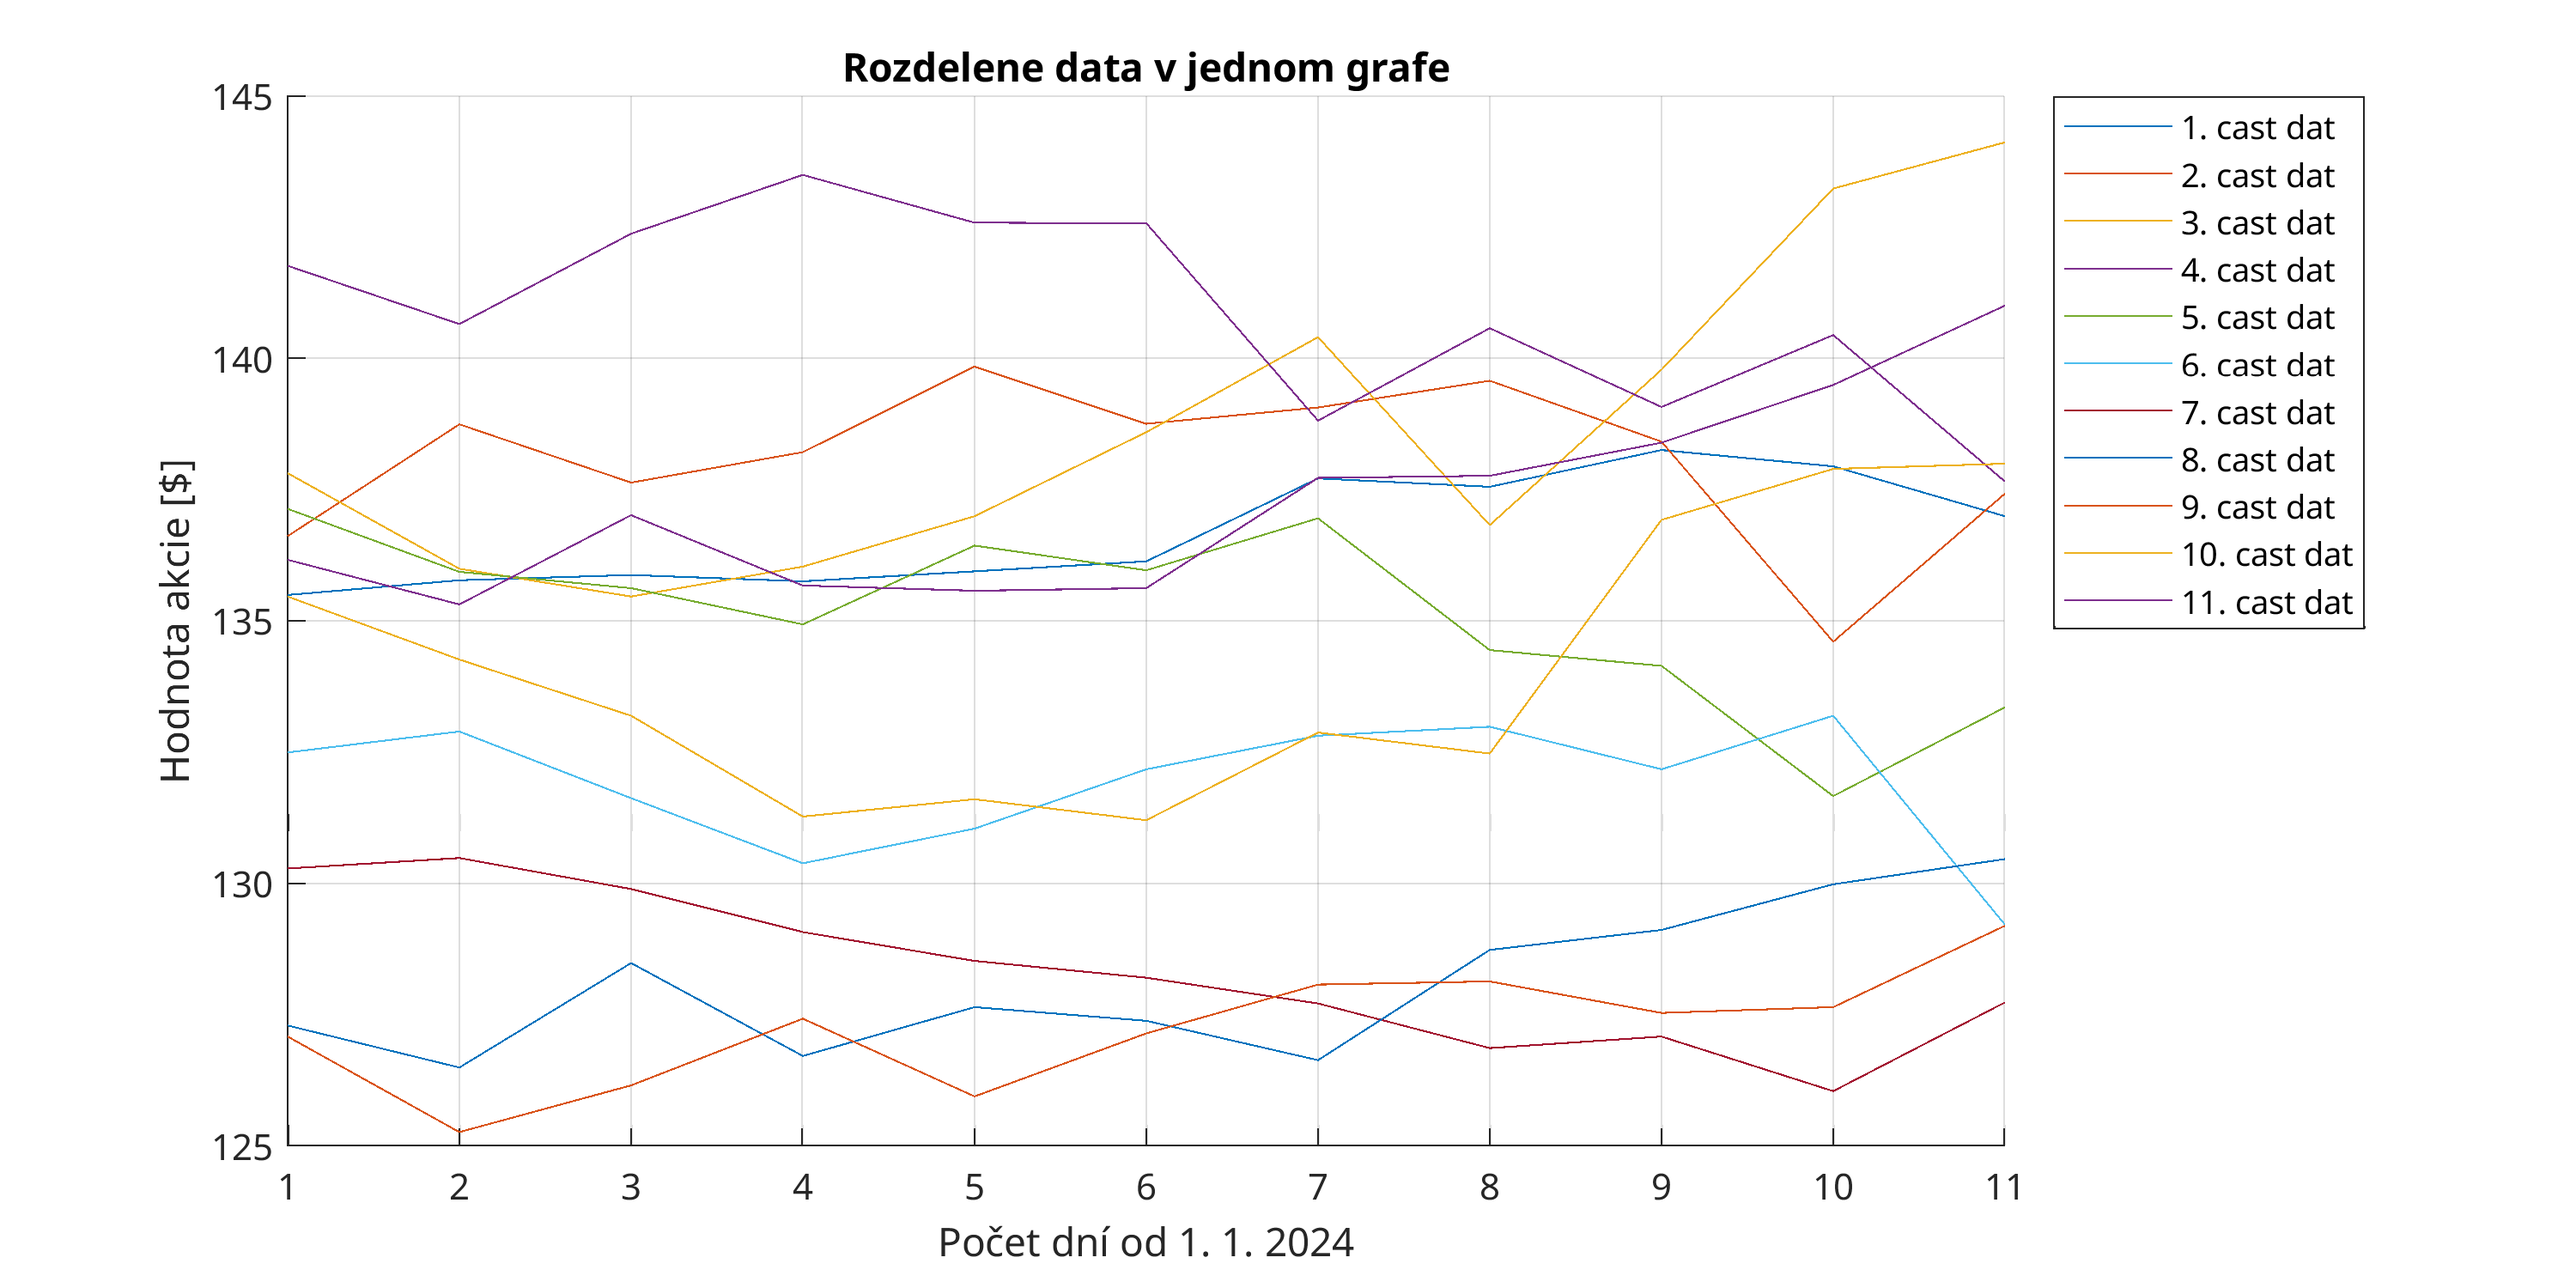
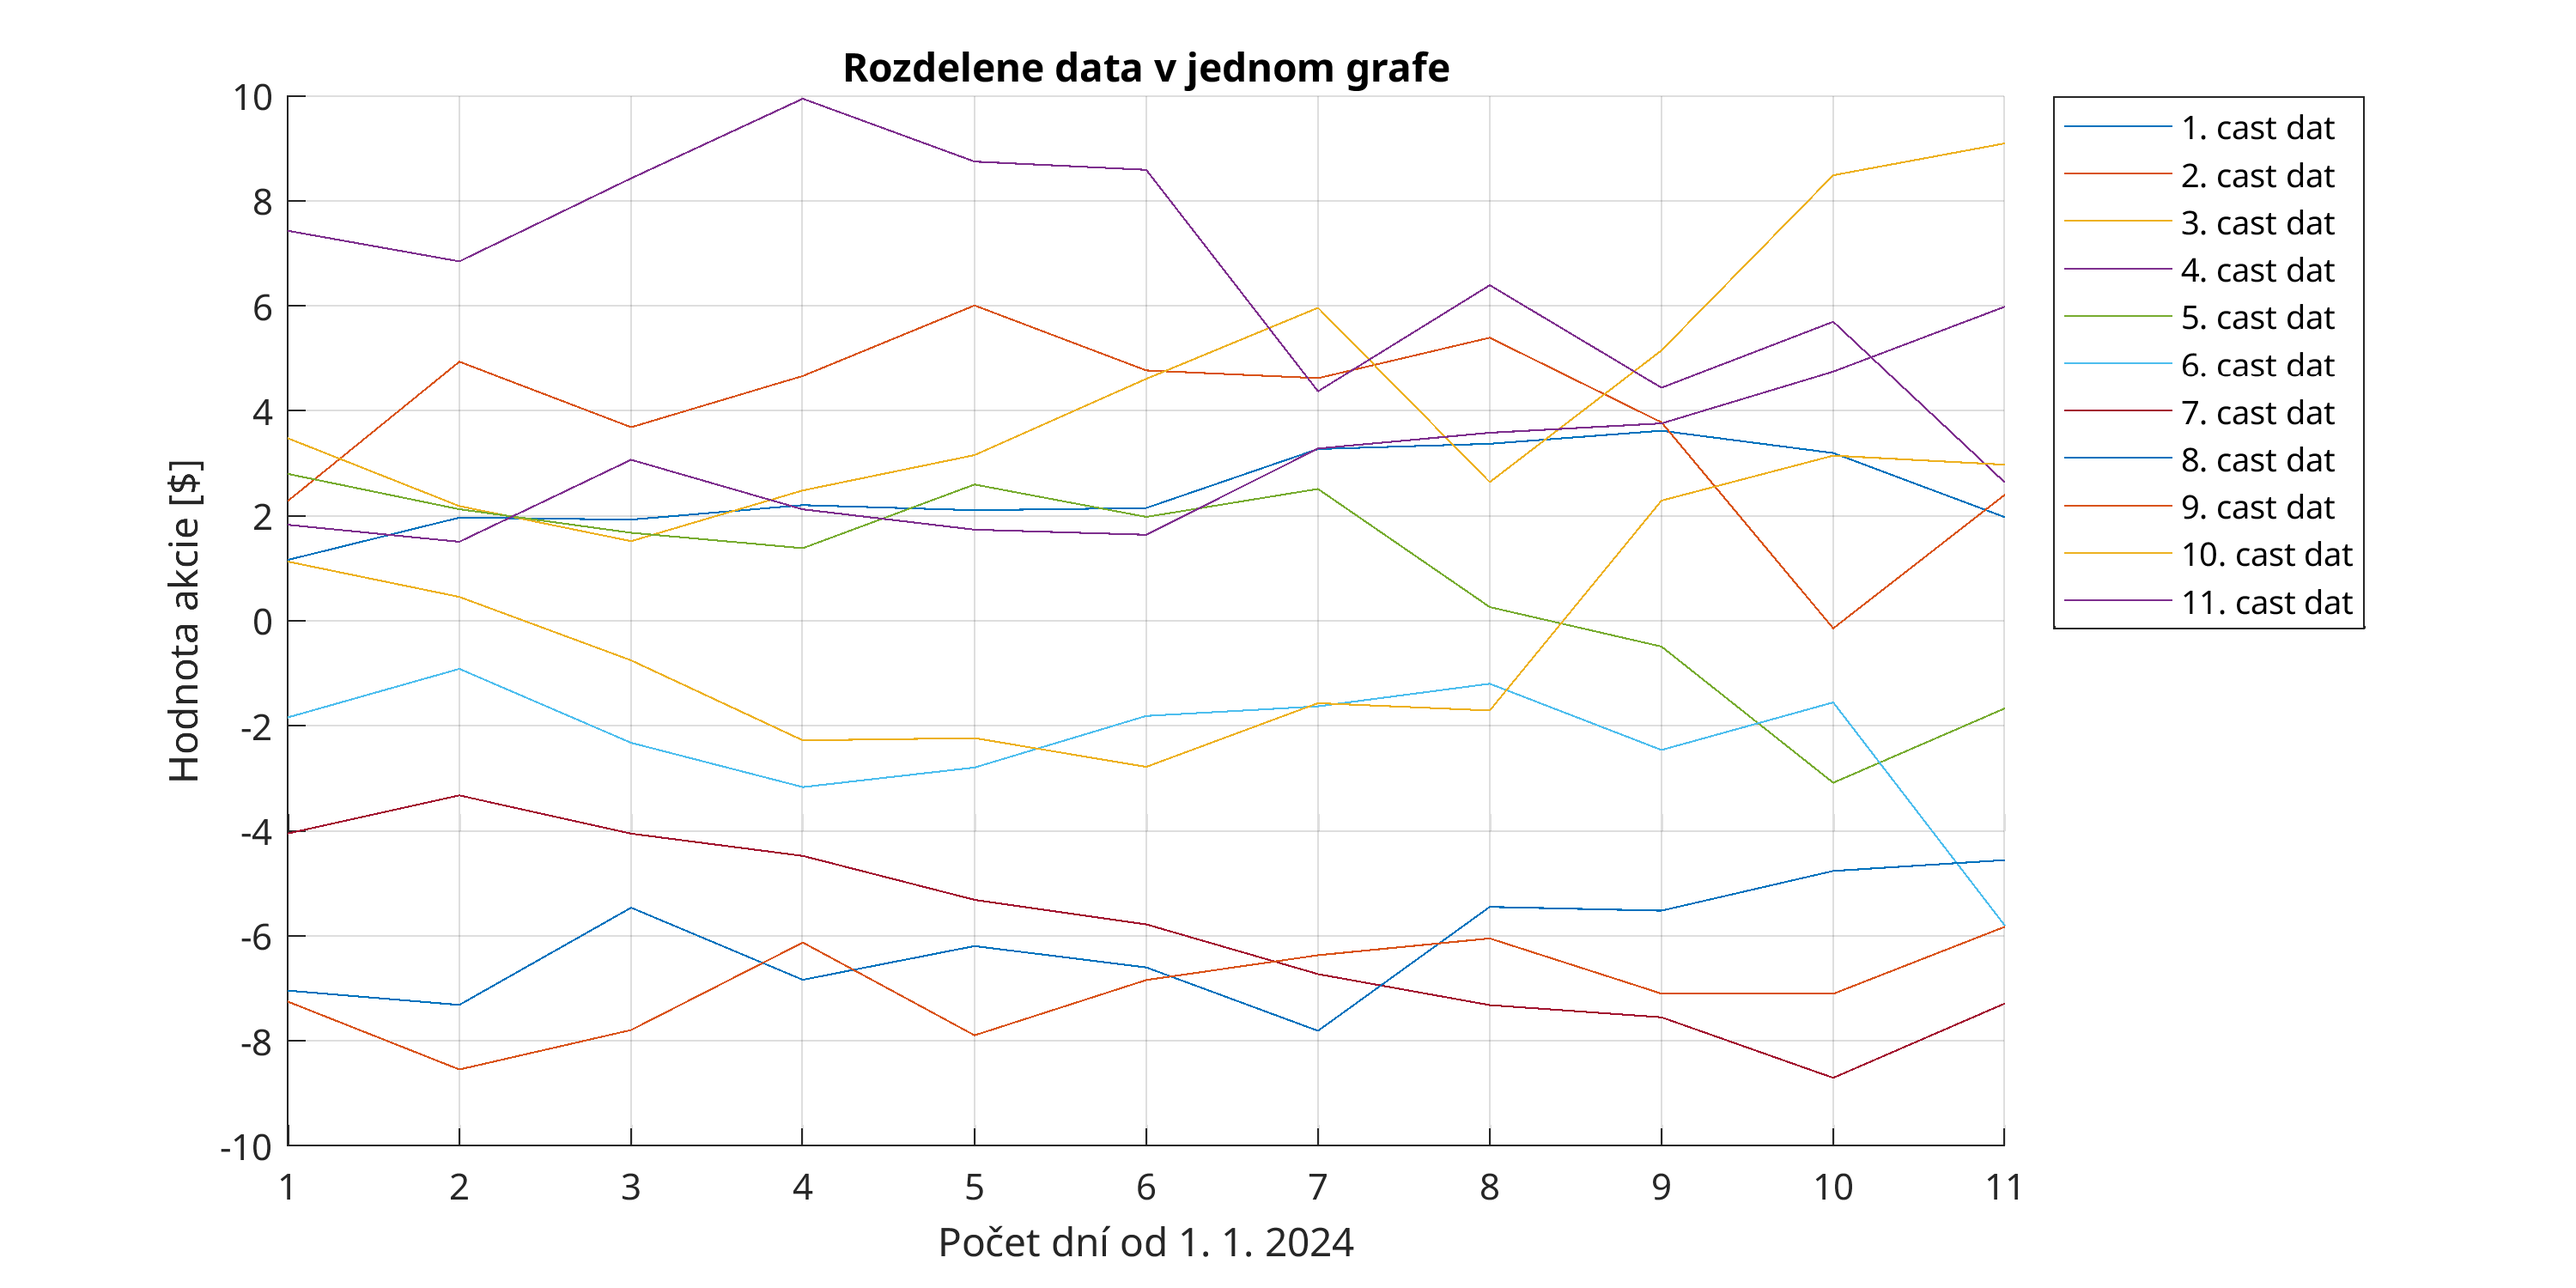
niekde v strede zadania 7

diff --git a/data/zadanie7.m b/data/zadanie7.m
@@ -3,9 +3,9 @@ import = readmatrix("matlabized_data2.csv");
 f_full = import(:, 2)';
 t_full = import(:, 1)';
 F = reshape(f_full(1:121), 11, 11);  % premeni data na 11x11 maticu
-F = F';
+F = (F') - mean((F'));  % vycentrovana a transponovana matica
 
-figure; hold on; grid on; legend; xlim([1 120]); title("Dáta - hodnoty akcií spoločnosti EA"); xlabel("Počet dní od 1. 1. 2024"); ylabel("Hodnota akcie [$]"); 
+figure; hold on; grid on; legend; xlim([1 121]); title("Dáta - hodnoty akcií spoločnosti EA"); xlabel("Počet dní od 1. 1. 2024"); ylabel("Hodnota akcie [$]"); 
 plot(t_full, f_full, DisplayName="Povodne data"); 
 
 figure; hold on; grid on; legend(Location="northeastoutside"); title("Rozdelene data"); xlabel("Počet dní od 1. 1. 2024"); ylabel("Hodnota akcie [$]"); xlim([1 121]); 
@@ -18,6 +18,39 @@ figure; hold on; grid on; legend(Location="northeastoutside"); title("Rozdelene 
 for i = 1:11
     plot(F(i, :), DisplayName=sprintf("%d. cast dat", i));
 end
+
+% ------------------ kovariancna matica --------------------
+R = cov(F);
+
+% for i = 1:30
+%     figure; hold on; title("Kovariancna matica"); xlabel("X"); ylabel("Y"), zlabel("Z")
+%     surf(R);
+%     view(i*12, 45);
+% end
+
+% ------------------- vlastne cisla -----------------------
+[U, S, V] = svd(R);
+vlastne_cisla = diag(S);
+
+figure, grid on; hold on; title("Spektrum vlastnych cisel")
+plot(vlastne_cisla);
+
+% ---------------- karhunen-loeve baza vlastnych vektorov ----------------
+C = F * U;
+
+% ------------------------- pohlady v1v2 v1v3 v2v3 ------------------------
+figure; hold on; grid on; title("Zobrazenie v rovine v1v2"); xlabel('v1'); ylabel('v2');
+plot(C(:, 1), C(:, 2), ".", MarkerSize=16);
+
+figure; hold on; grid on; title("Zobrazenie v rovine v1v3"); xlabel('v1'); ylabel('v3');
+plot(C(:, 1), C(:, 3), ".", MarkerSize=16);
+
+figure; hold on; grid on; title("Zobrazenie v rovine v2v3"); xlabel('v2'); ylabel('v3');
+plot(C(:, 2), C(:, 3), ".", MarkerSize=16);
+
+info1 = (vlastne_cisla(1) + vlastne_cisla(2)) / sum(vlastne_cisla);
+info2 = (vlastne_cisla(1) + vlastne_cisla(3)) / sum(vlastne_cisla);
+info3 = (vlastne_cisla(2) + vlastne_cisla(3)) / sum(vlastne_cisla);
 
 
 
@@ -69,4 +102,4 @@ for n = 1:length(figHandles)
     print(fig, filename, '-dpng', ['-r', num2str(resolution)]);
 end
 
-close all;
+% close all;

diff --git a/data/zadanie7_pokus.m b/data/zadanie7_pokus.m
@@ -1,0 +1,21 @@
+% Generovanie pôvodného časového radu
+original_series = rand(1, 100); % napr. náhodné hodnoty
+n = 10; % dĺžka čiastočných radov
+num_series = floor(length(original_series) / n);
+
+% Vytváranie čiastočných časových radov
+partial_series = zeros(num_series, n);
+for i = 1:num_series
+    partial_series(i, :) = original_series((i-1)*n + 1 : i*n);
+end
+
+% Zobrazenie časových radov
+figure;
+hold on;
+for i = 1:num_series
+    plot(1:n, partial_series(i, :));
+end
+xlabel('Časová os t');
+ylabel('Hodnoty');
+title('Čiastočné časové rady');
+hold off;

diff --git a/matlab/w11.m b/matlab/w11.m
@@ -91,6 +91,8 @@ C = X*U
 
 L = diag(S)
 figure
+hold on
+title("L")
 plot(L)
 
 figure
